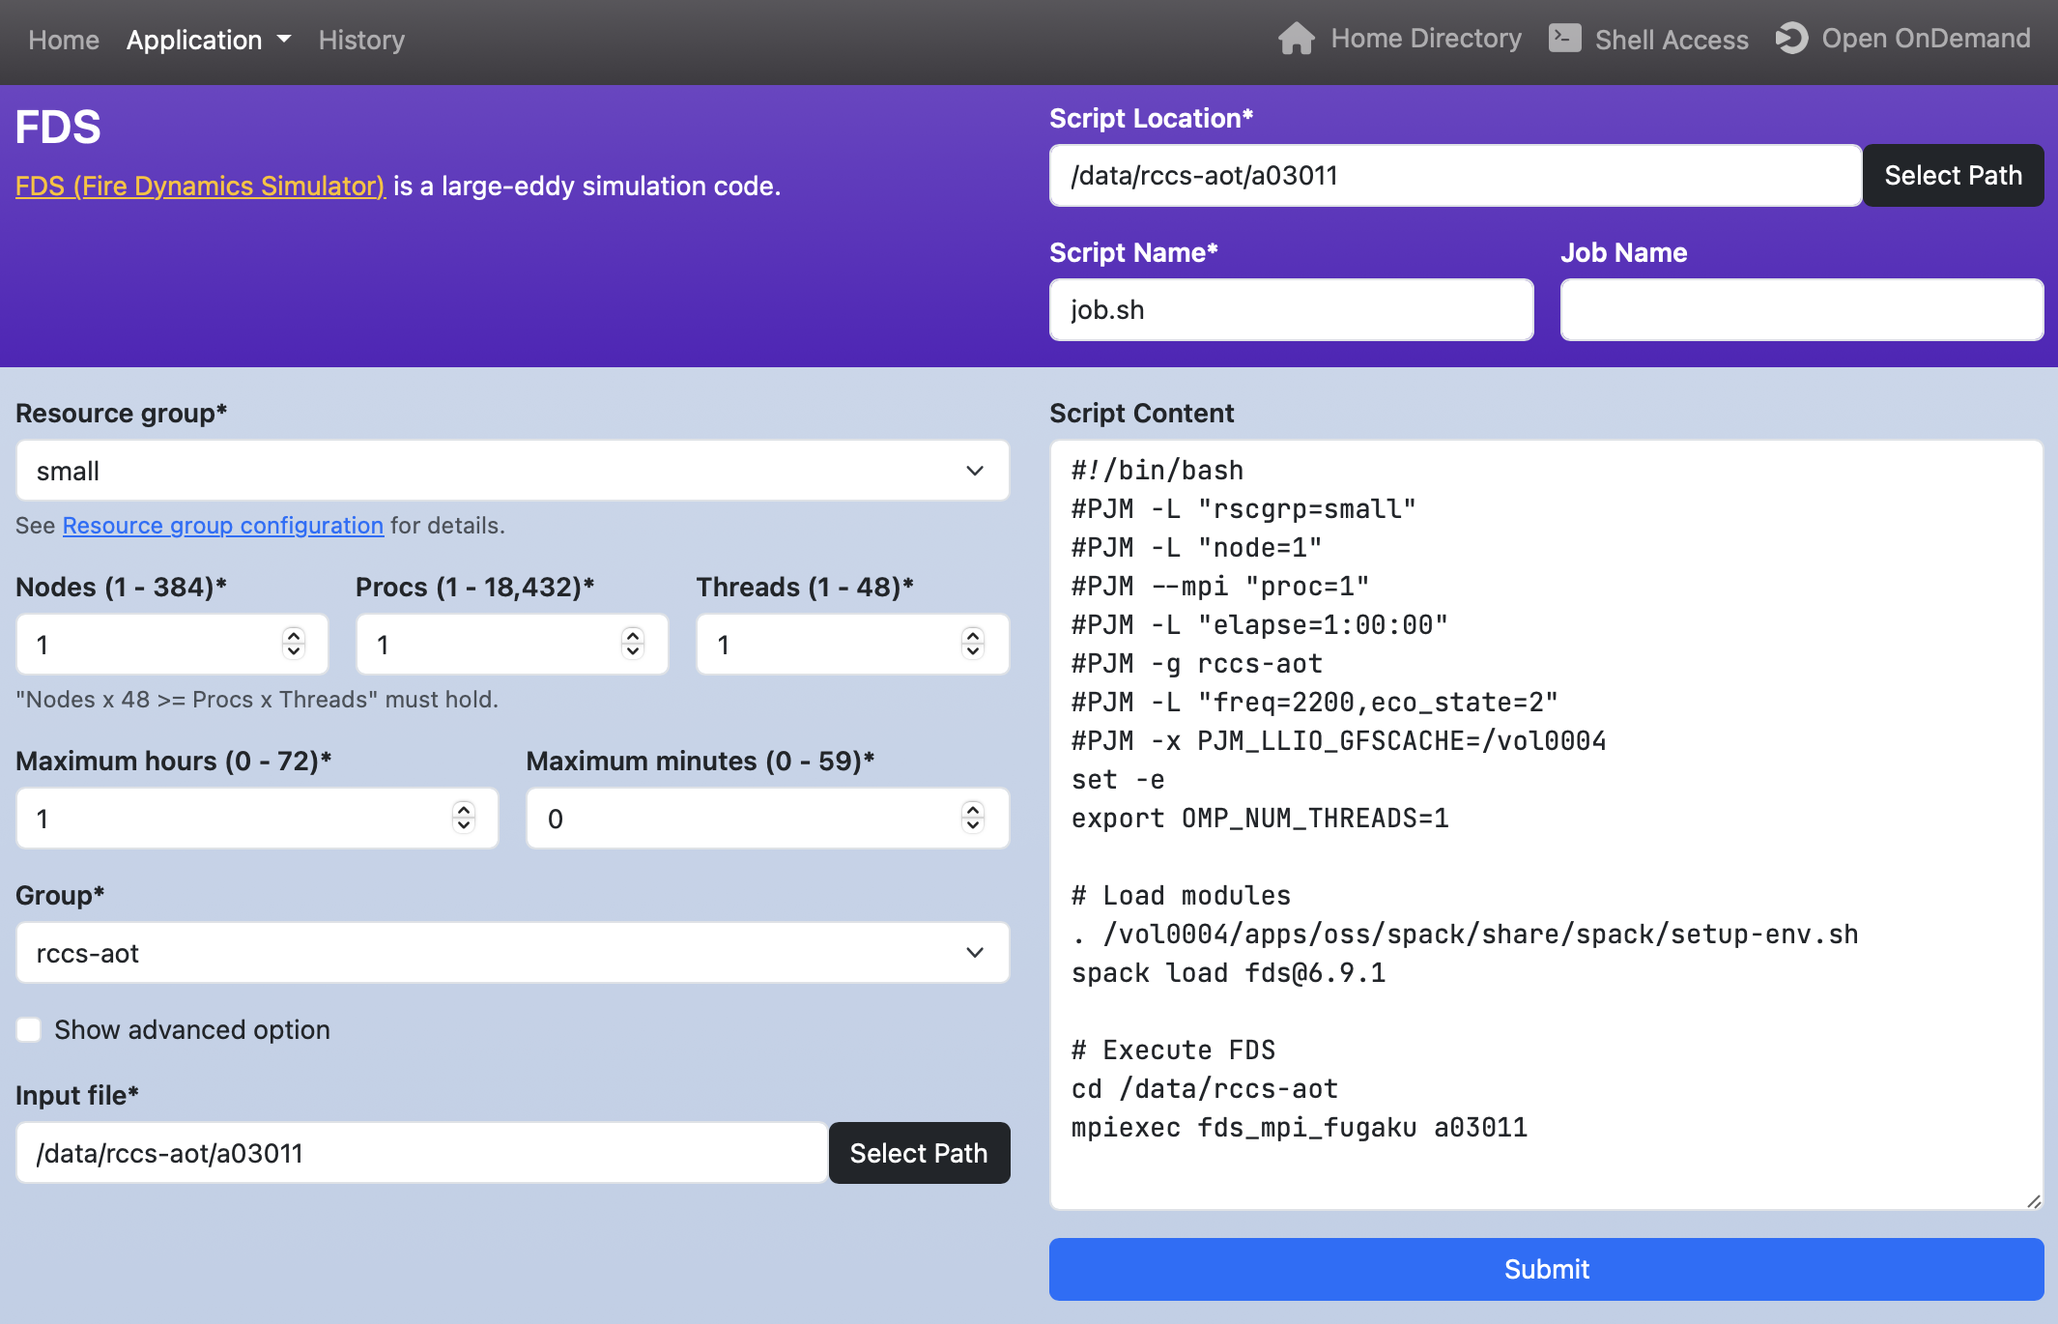
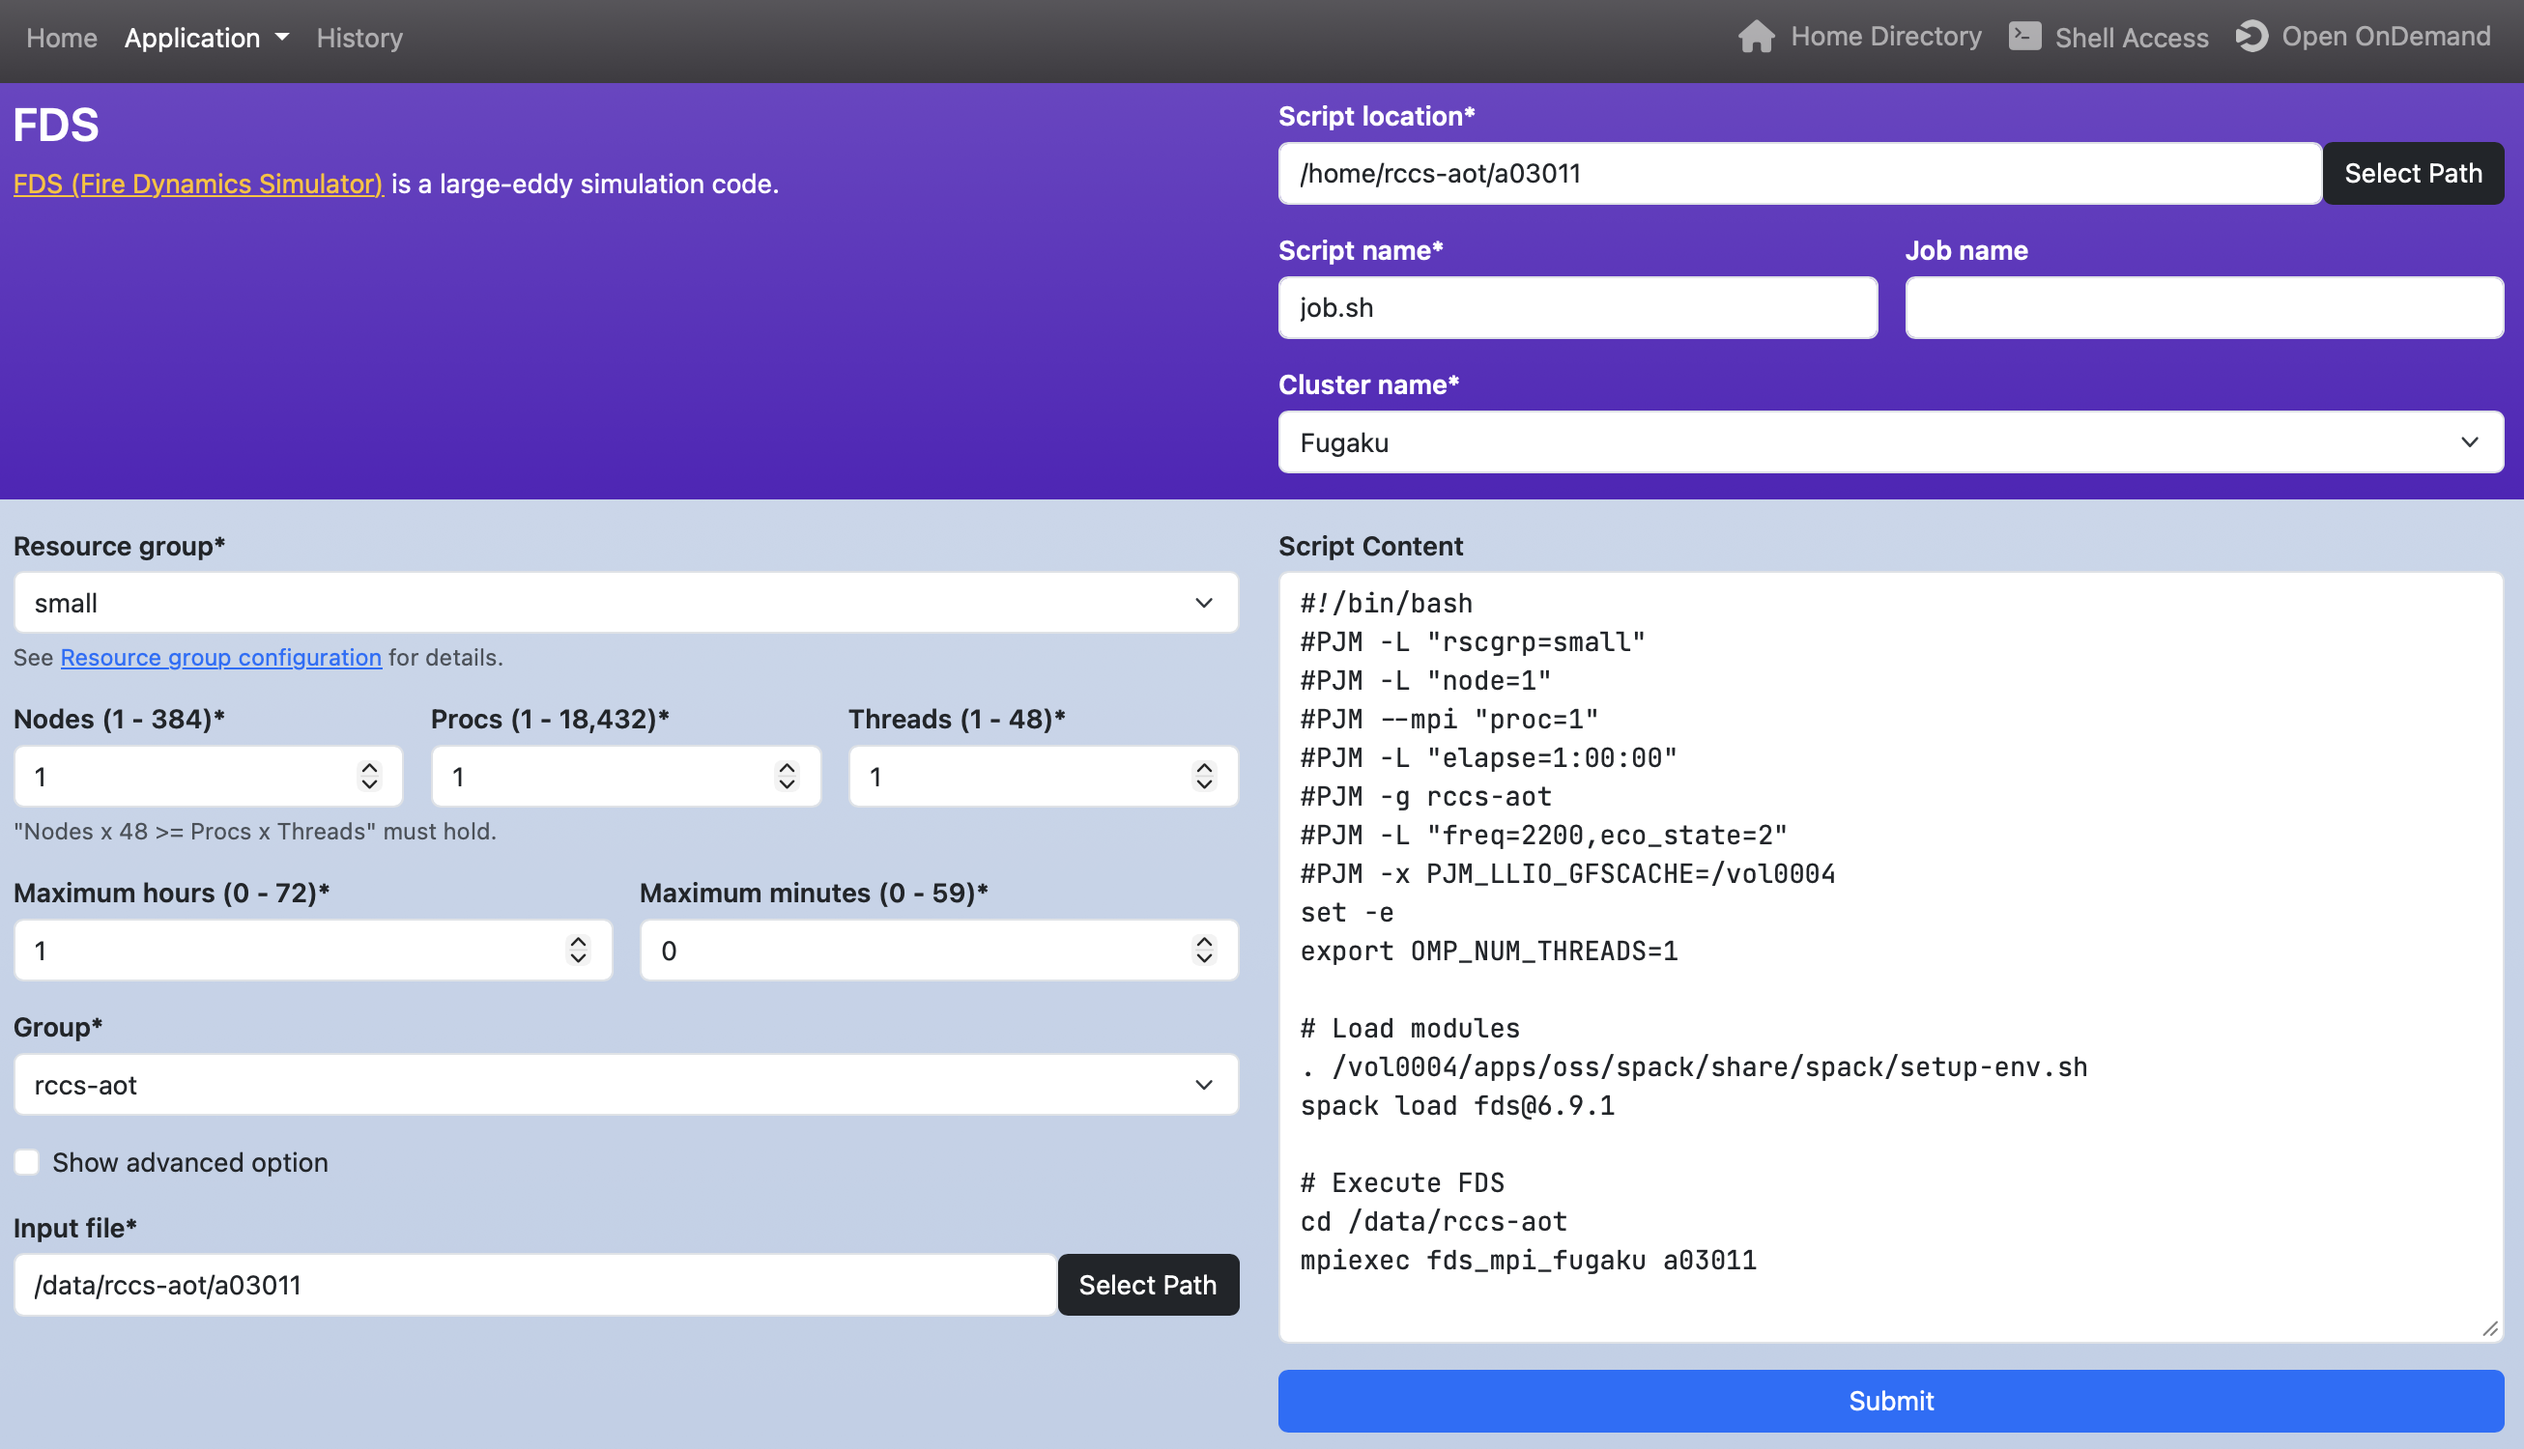
Add description on multiple job schedulers in manual page

diff --git a/docs/manual_ja.html b/docs/manual_ja.html
@@ -39,13 +39,18 @@
       </p>
       <img src="img/application_page.png" width="800" alt="Application page">
 
+      <ul class="mt-3">
+	<li>ヘッダの「Script location」と「Script name」と「Job name」は、それぞれ「ジョブスクリプトの保存先ディレクトリ」と「ジョブスクリプトのファイル名」と「ジョブ名」を記述します。</li>
+	<li>ヘッダの「Cluster name」は複数のジョブスケジューラを設定している場合のみ表示されます。選択されたジョブスケジューラを使ってジョブスクリプトが投入されます。</li>
+      </ul>
+      
       <h2 id="history">4. 履歴ページ</h2>
       <p>
 	これまでのジョブ履歴を閲覧できます。ジョブの実行状況の確認や実行中のジョブの停止も可能です。
       </p>
       <img src="img/history_page.png" width="800" alt="History page">
 
-      <ul class="mt-4">
+      <ul class="mt-3">
 	<li>ヘッダ右の「Filter」に文字を入力してエンターキーを押すと、その文字と表の各要素とが一致しているジョブのみが表示されます。</li>
 	<li>ヘッダ右の「All」、「Running」、「Queued」、「Completed」のラジオボタンをクリックすると、それぞれの状態に対応したジョブのみが表示されます。その下のラジオボタンは複数のジョブスケジューラを設定している場合のみ表示されます（図では「Fugaku」と「Prepost」と表示されていますが、表示名は設定によります）。そのラジオボタンをクリックすると、選択されたジョブスケジューラのジョブだけが表示されます。</li>
 	<li>実行中のジョブやキューに登録されているジョブをキャンセルしたい場合は、そのジョブの一番左のチェックボックスをチェックし、表の上にある「Cancel Job」をクリックします。</li>

diff --git a/docs/manual.html b/docs/manual.html
@@ -47,6 +47,11 @@
       </p>
       <img src="img/application_page.png" width="800" alt="Application page">
 
+      <ul class="mt-3">
+	<li>The "Script location," "Script name," and "Job name" in the header section specify the "job script save directory," "job script file name," and "job name," respectively. </li>
+	<li>The "Cluster name" in the header section  is only displayed if multiple job schedulers are configured. The job script will be submitted using the selected job scheduler. </li>
+      </ul>
+      
       <h2 id="history">4. History Page</h2>
       <p>
 	Displays the job history.
@@ -54,7 +59,7 @@
       </p>
       <img src="img/history_page.png" width="800" alt="History page">
 
-      <ul class="mt-4">
+      <ul class="mt-3">
 	<li>Enter text in the "Filter" box to the right of the header and press the Enter key to display only jobs whose text matches each element in the table.</li>
 	<li>Click the "All," "Running," "Queued," or "Completed" radio button on the right of the header to display only jobs corresponding to that status. The radio buttons below will only be displayed if multiple job schedulers are configured (The image shows "Fugaku" and "Prepost", but the display names will depend on the configuration). Click the radio button to display only jobs from the selected job scheduler.</li>
         <li>To cancel a running job or a queued job, check the leftmost check box of the job and click "Cancel Job" above the table.</li>
